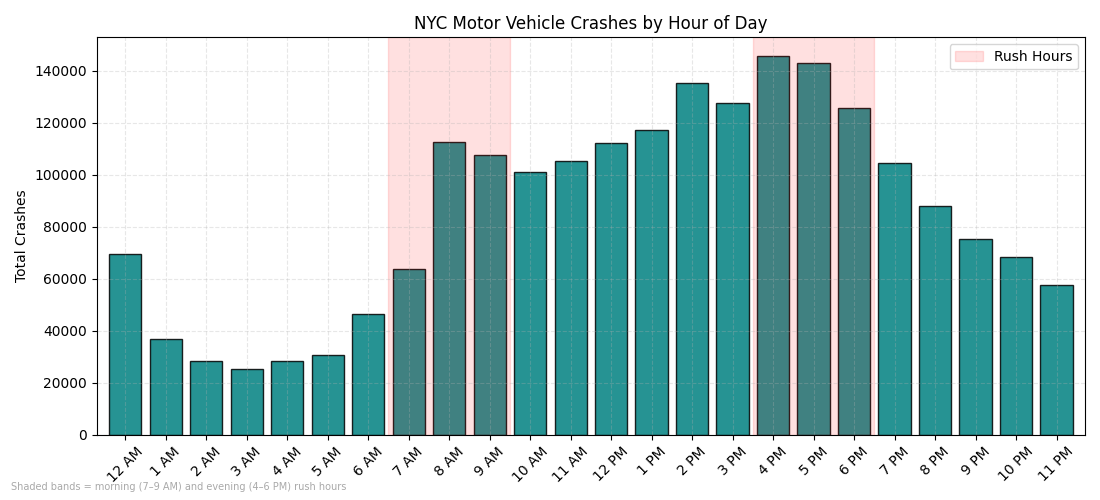
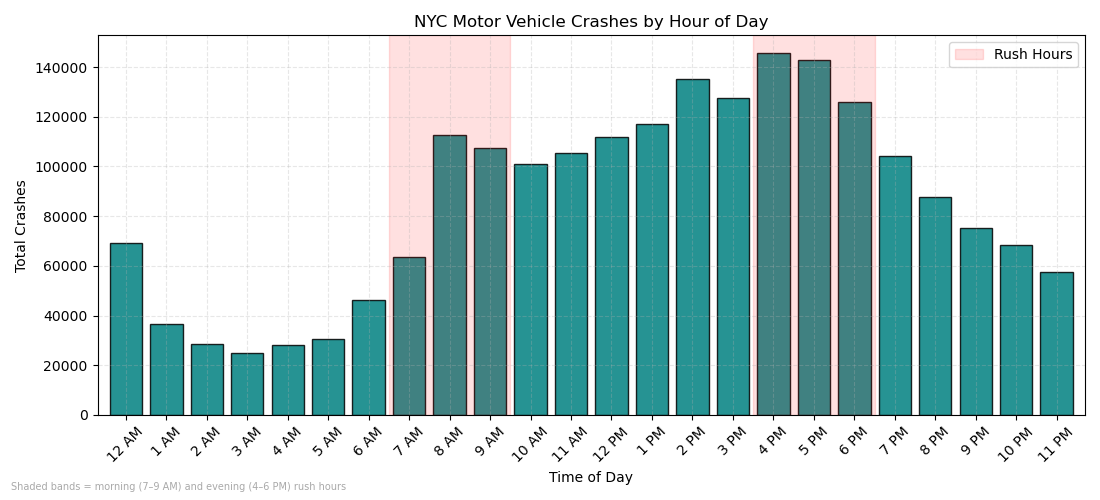
Misc. optimizations & code cleaning

diff --git a/main.py b/main.py
@@ -4,18 +4,19 @@ from vis_code.Dist_2 import dist2
 from vis_code.relationships import relPlot
 from vis_code.Agg import agg
 
-print("--------------------------")
+print("\n--------------------------")
 print("CS_2300 - Final Project")
 print("--------------------------\n")
 
-print("Cleaning data:")
+print("Cleaning data (est. 3 minutes):")
+
 df_clean = load_and_clean_data()
 
 running = True
 
 while running:
     print("\nCONTROL PANEL")
-    print("1. Run crashes by severity visualization")
+    print("1. Run crashes by severity distribution visualization")
     print("2. Run crashes by hour distribution visualization")
     print("3. Run relationships visualization")
     print("4. Run aggregated crashes by borough visualization")
@@ -45,6 +46,9 @@ while running:
         agg(df_clean)
 
     elif choice == "0":
+        print("\n--------------------------")
+        print("END OF PROGRAM")
+        print("--------------------------\n")
         print("Goodbye.")
         running = False
 

diff --git a/vis_code/Dist_2.py b/vis_code/Dist_2.py
@@ -1,7 +1,5 @@
-import pandas as pd
 import matplotlib.pyplot as plt
 import numpy as np
-import seaborn as sns
 from vis_code.extra_funcs import *
 
 def dist2(data):
@@ -27,8 +25,9 @@ def dist2(data):
     plt.axvspan(16 - 0.5, 18 + 0.5, alpha=0.12, color='red')
 
     plt.title("NYC Motor Vehicle Crashes by Hour of Day")
-    plt.ylabel("Total Crashes")
     plt.xticks(hours, hour_labels, rotation=45)
+    plt.xlabel("Time of Day")
+    plt.ylabel("Total Crashes")
     plt.legend()
     plt.grid(alpha=0.3, linestyle='--')
     plt.xlim(-0.7, 23.7)

diff --git a/vis_code/clean_data.py b/vis_code/clean_data.py
@@ -84,12 +84,4 @@ def load_and_clean_data():
 
     print("Rows remaining after cleaning:", len(df_clean))
 
-    # print("\nSeverity Distribution:")
-    # print(df_clean["SEVERITY_LABEL"].value_counts())
-
-    # print("\nBorough Distribution:")
-    # print(df_clean["BOROUGH"].value_counts(dropna=False))
-
-    # print(f"\nYear Range: {df_clean['YEAR'].min()} - {df_clean['YEAR'].max()}")
-
     return df_clean

diff --git a/vis_code/relationships.py b/vis_code/relationships.py
@@ -1,6 +1,3 @@
-import pandas as pd
-import matplotlib.pyplot as plt
-import seaborn as sns
 import plotly.express as px
 
 def relPlot(data):
@@ -39,6 +36,3 @@ def relPlot(data):
     fig.write_html("figures/fig3_crash_danger.html")
     print("Figure saved as 'figures/fig3_crash_danger.html'")
     return fig
-
-
-    

diff --git a/vis_code/Agg.py b/vis_code/Agg.py
@@ -1,9 +1,4 @@
-import pandas as pd
 import matplotlib.pyplot as plt
-import numpy as np
-import seaborn as sns
-import geopandas as gpd
-import plotly.express as px
 
 def agg(data):
     data_agg_1 = data.copy()

diff --git a/vis_code/Dist_1.py b/vis_code/Dist_1.py
@@ -1,6 +1,4 @@
-import pandas as pd
 import matplotlib.pyplot as plt
-import numpy as np
 from vis_code.extra_funcs import *
     
 def dist1(data):
